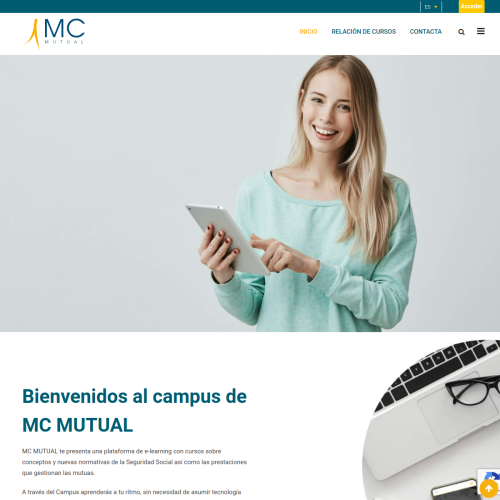
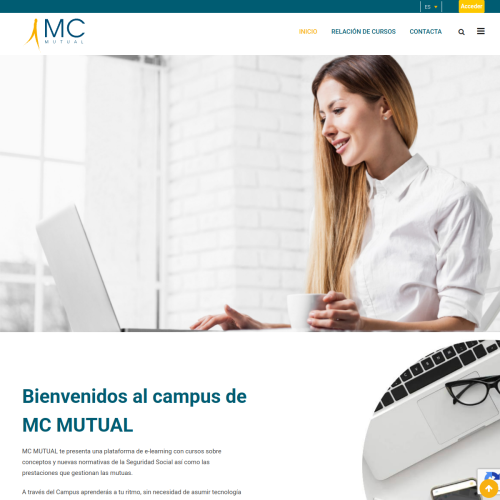
update project and change from JS to bash for images update

diff --git a/res/style.css b/res/style.css
@@ -48,16 +48,16 @@ ul {
 				position: relative;
 				margin-bottom: -2rem;
 
-				&:after {
+				/*&:after {
 					display: block;
 					width: 100%;
 					position: absolute;
-					bottom: -2.5rem;
+					bottom: 1rem;
 					left: 1rem;
 					content: 'New portfolio! ⤴';
-					color: rebeccapurple;
-					font: normal 1.4rem 'Brush Script MT', cursive;
-				}
+					color: white;
+					font: 300 1.4rem 'Brush Script MT', cursive;
+				}*/
 			}
 
 			a {
